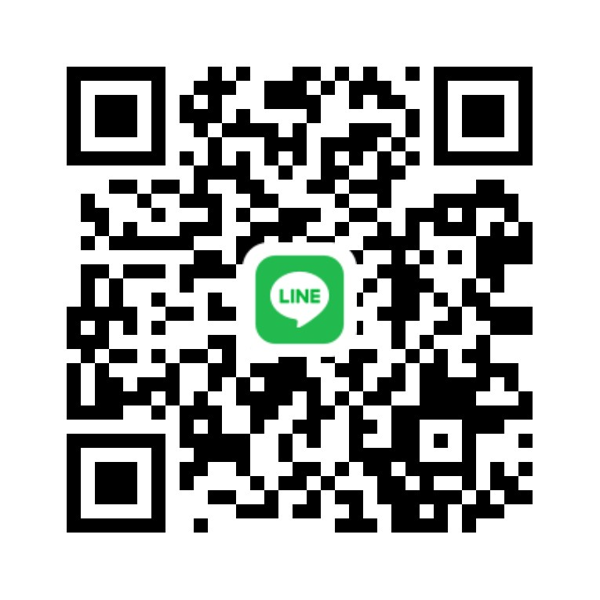
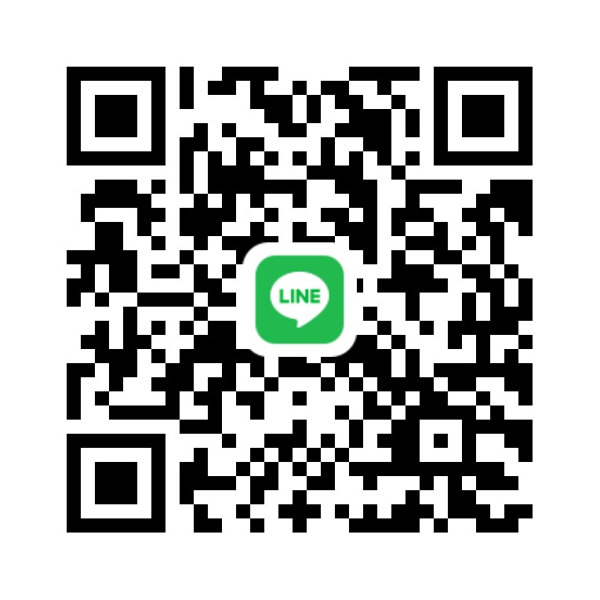
New LINE link and QR
Claude-Session: https://claude.ai/code/session_01Tf6yeDYm4jiVh4JMoniBcq

Changed region(s): [[0.09, 0.09, 0.9, 0.9]]

diff --git a/index.html b/index.html
@@ -197,7 +197,7 @@ footer{padding:28px max(5vw,18px);border-top:1px solid var(--line);color:var(--m
       <div class="perk"><span class="ck">✓</span> ขั้นต่ำ 100 ตร.ม.<i>Min. 100 m²</i></div>
     </div>
     <div class="match"><b>เจอถูกกว่า คืนส่วนต่าง!</b><small>Found it cheaper on Koh Samui? We refund the difference · สินค้าและจำนวนเดียวกัน</small></div>
-    <div class="row"><a class="btn" href="https://line.me/ti/p/-pnsRf7mvr">ขอใบเสนอราคาทาง LINE · Get a quote →</a></div>
+    <div class="row"><a class="btn" href="https://line.me/ti/p/hHdg4msBhp">ขอใบเสนอราคาทาง LINE · Get a quote →</a></div>
     </div>
   </div>
 </header>
@@ -274,7 +274,7 @@ footer{padding:28px max(5vw,18px);border-top:1px solid var(--line);color:var(--m
       <strong>500+ ตร.ม.</strong>
       <h2>โครงการใหญ่ ราคาพิเศษ<span class="en">Projects over 500 m² get special pricing</span></h2>
       <p class="note">วิลล่า รีสอร์ท อาคารพาณิชย์ — สอบถามราคาโครงการได้เลย<br>Villas, resorts, commercial buildings — ask for a project price.</p>
-      <div><a class="btn" href="https://line.me/ti/p/-pnsRf7mvr" style="white-space:normal;text-align:center;padding-block:10px">สอบถามราคาโครงการ · Project price</a></div>
+      <div><a class="btn" href="https://line.me/ti/p/hHdg4msBhp" style="white-space:normal;text-align:center;padding-block:10px">สอบถามราคาโครงการ · Project price</a></div>
     </div>
   </div>
 </section>
@@ -284,7 +284,7 @@ footer{padding:28px max(5vw,18px);border-top:1px solid var(--line);color:var(--m
     <h2>สั่งซื้อทาง LINE / WhatsApp<span class="en">Order on LINE or WhatsApp</span></h2>
     <div class="card">
       <div class="qrs">
-        <div class="qcol"><a href="https://line.me/ti/p/-pnsRf7mvr" aria-label="Add us on LINE"><img class="qrimg" src="img/line-qr.png" alt="LINE QR code" width="200" height="200"></a><a class="btn line" href="https://line.me/ti/p/-pnsRf7mvr">LINE</a></div>
+        <div class="qcol"><a href="https://line.me/ti/p/hHdg4msBhp" aria-label="Add us on LINE"><img class="qrimg" src="img/line-qr.png" alt="LINE QR code" width="200" height="200"></a><a class="btn line" href="https://line.me/ti/p/hHdg4msBhp">LINE</a></div>
         <div class="qcol"><a href="https://wa.me/message/L4ZFOTGJVSHLE1" aria-label="Chat on WhatsApp"><img class="qrimg" src="img/wa-qr.png" alt="WhatsApp QR code" width="200" height="200"></a><a class="btn wa" href="https://wa.me/message/L4ZFOTGJVSHLE1">WhatsApp</a></div>
       </div>
       <p class="chosen" id="chosen" hidden></p>
@@ -296,7 +296,7 @@ footer{padding:28px max(5vw,18px);border-top:1px solid var(--line);color:var(--m
 </section>
 
 <a class="wafab" href="https://wa.me/message/L4ZFOTGJVSHLE1" aria-label="Chat with us on WhatsApp"><svg viewBox="0 0 32 32" width="30" height="30" aria-hidden="true"><path fill="#fff" d="M16 3.2A12.7 12.7 0 0 0 5.1 22.4L3.3 28.8l6.6-1.7A12.7 12.7 0 1 0 16 3.2zm0 23.2a10.5 10.5 0 0 1-5.4-1.5l-.4-.2-3.9 1 1-3.8-.3-.4A10.5 10.5 0 1 1 16 26.4zm5.8-7.9c-.3-.2-1.9-.9-2.2-1s-.5-.2-.7.2-.8 1-1 1.2-.4.2-.7.1a8.6 8.6 0 0 1-4.3-3.7c-.3-.6.3-.5.9-1.7.1-.2 0-.4 0-.5l-1-2.4c-.3-.6-.5-.5-.7-.5h-.6a1.2 1.2 0 0 0-.9.4 3.7 3.7 0 0 0-1.1 2.7 6.5 6.5 0 0 0 1.3 3.4 14.6 14.6 0 0 0 5.6 5c2.1.9 2.9 1 4 .8a3.3 3.3 0 0 0 2.2-1.5 2.7 2.7 0 0 0 .2-1.5c-.1-.1-.3-.2-.6-.3z"/></svg></a>
-<a class="linefab" href="https://line.me/ti/p/-pnsRf7mvr" aria-label="Chat with us on LINE"><img src="img/line-icon.png" alt="" width="60" height="60"></a>
+<a class="linefab" href="https://line.me/ti/p/hHdg4msBhp" aria-label="Chat with us on LINE"><img src="img/line-icon.png" alt="" width="60" height="60"></a>
 <div class="lb" id="lb" role="dialog" aria-modal="true" aria-label="Photo"><img id="lbimg" alt=""><button class="x" id="lbx" aria-label="Close">✕</button><button class="lp" id="lbp" aria-label="Previous">←</button><button class="ln" id="lbn" aria-label="Next">→</button></div>
 <footer><span>Samui Shingle Roof</span><span>ส่งฟรี · ภายใน 72 ชม. · ขั้นต่ำ 100 ตร.ม.</span></footer>
 
